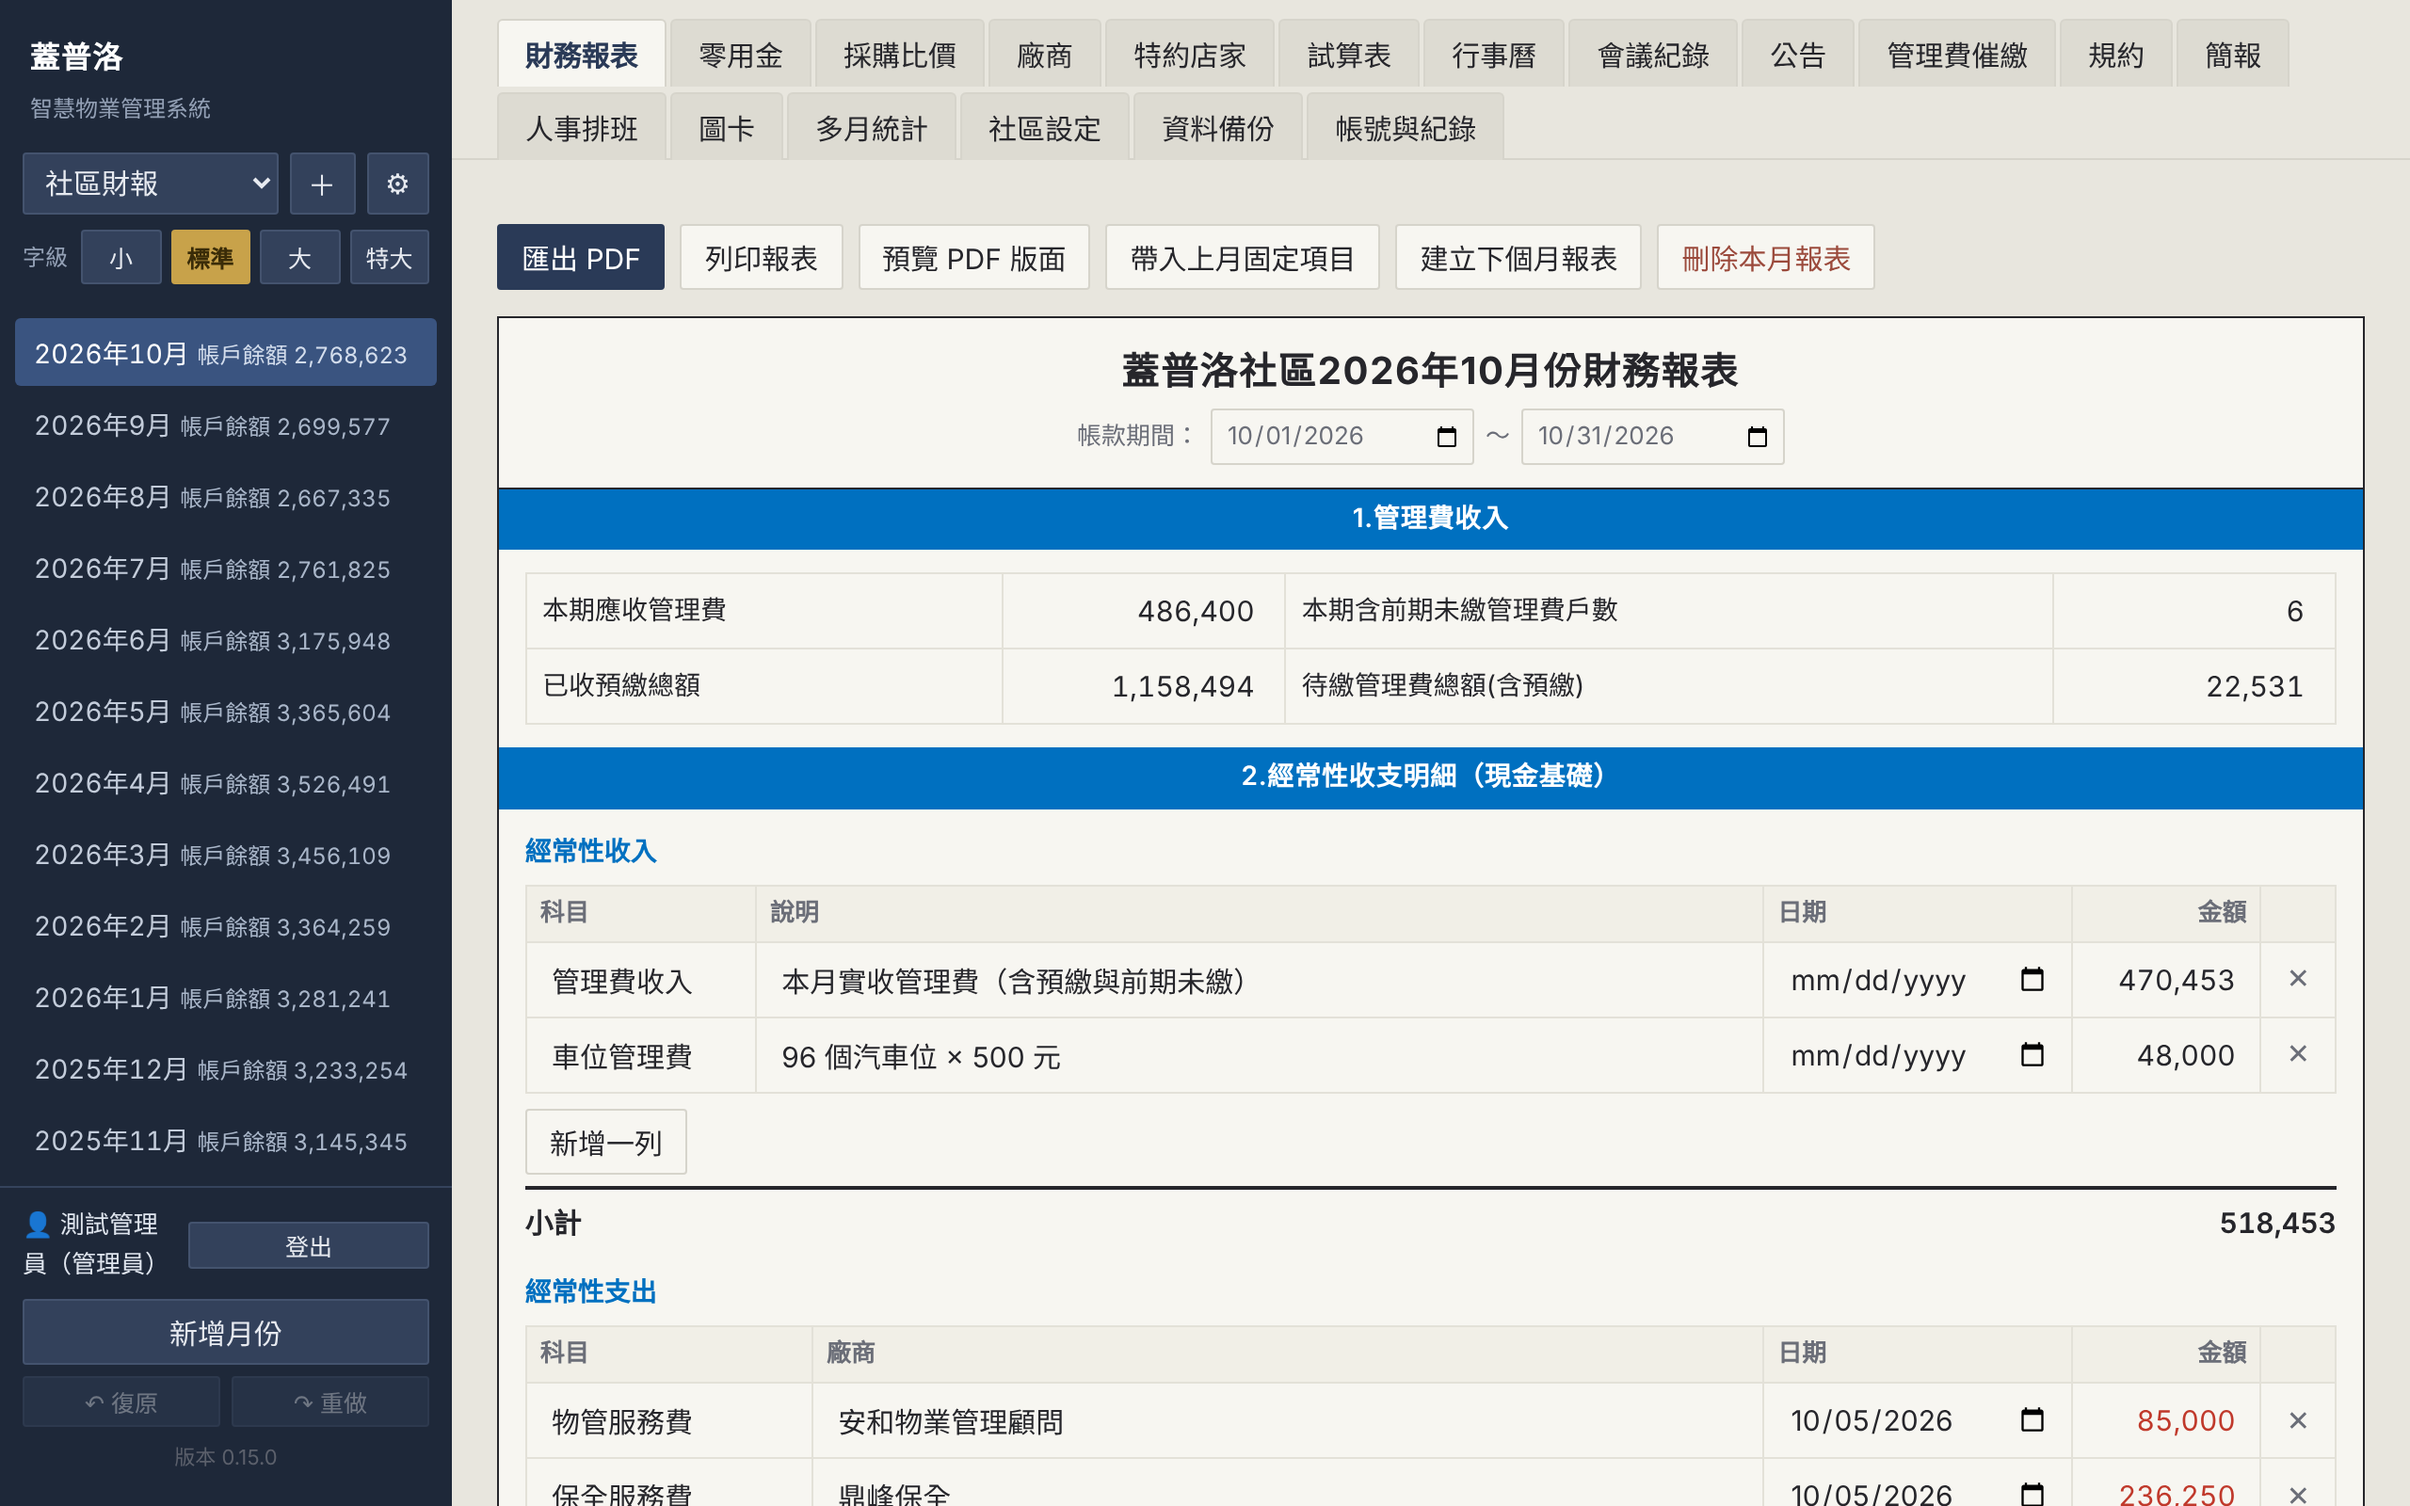
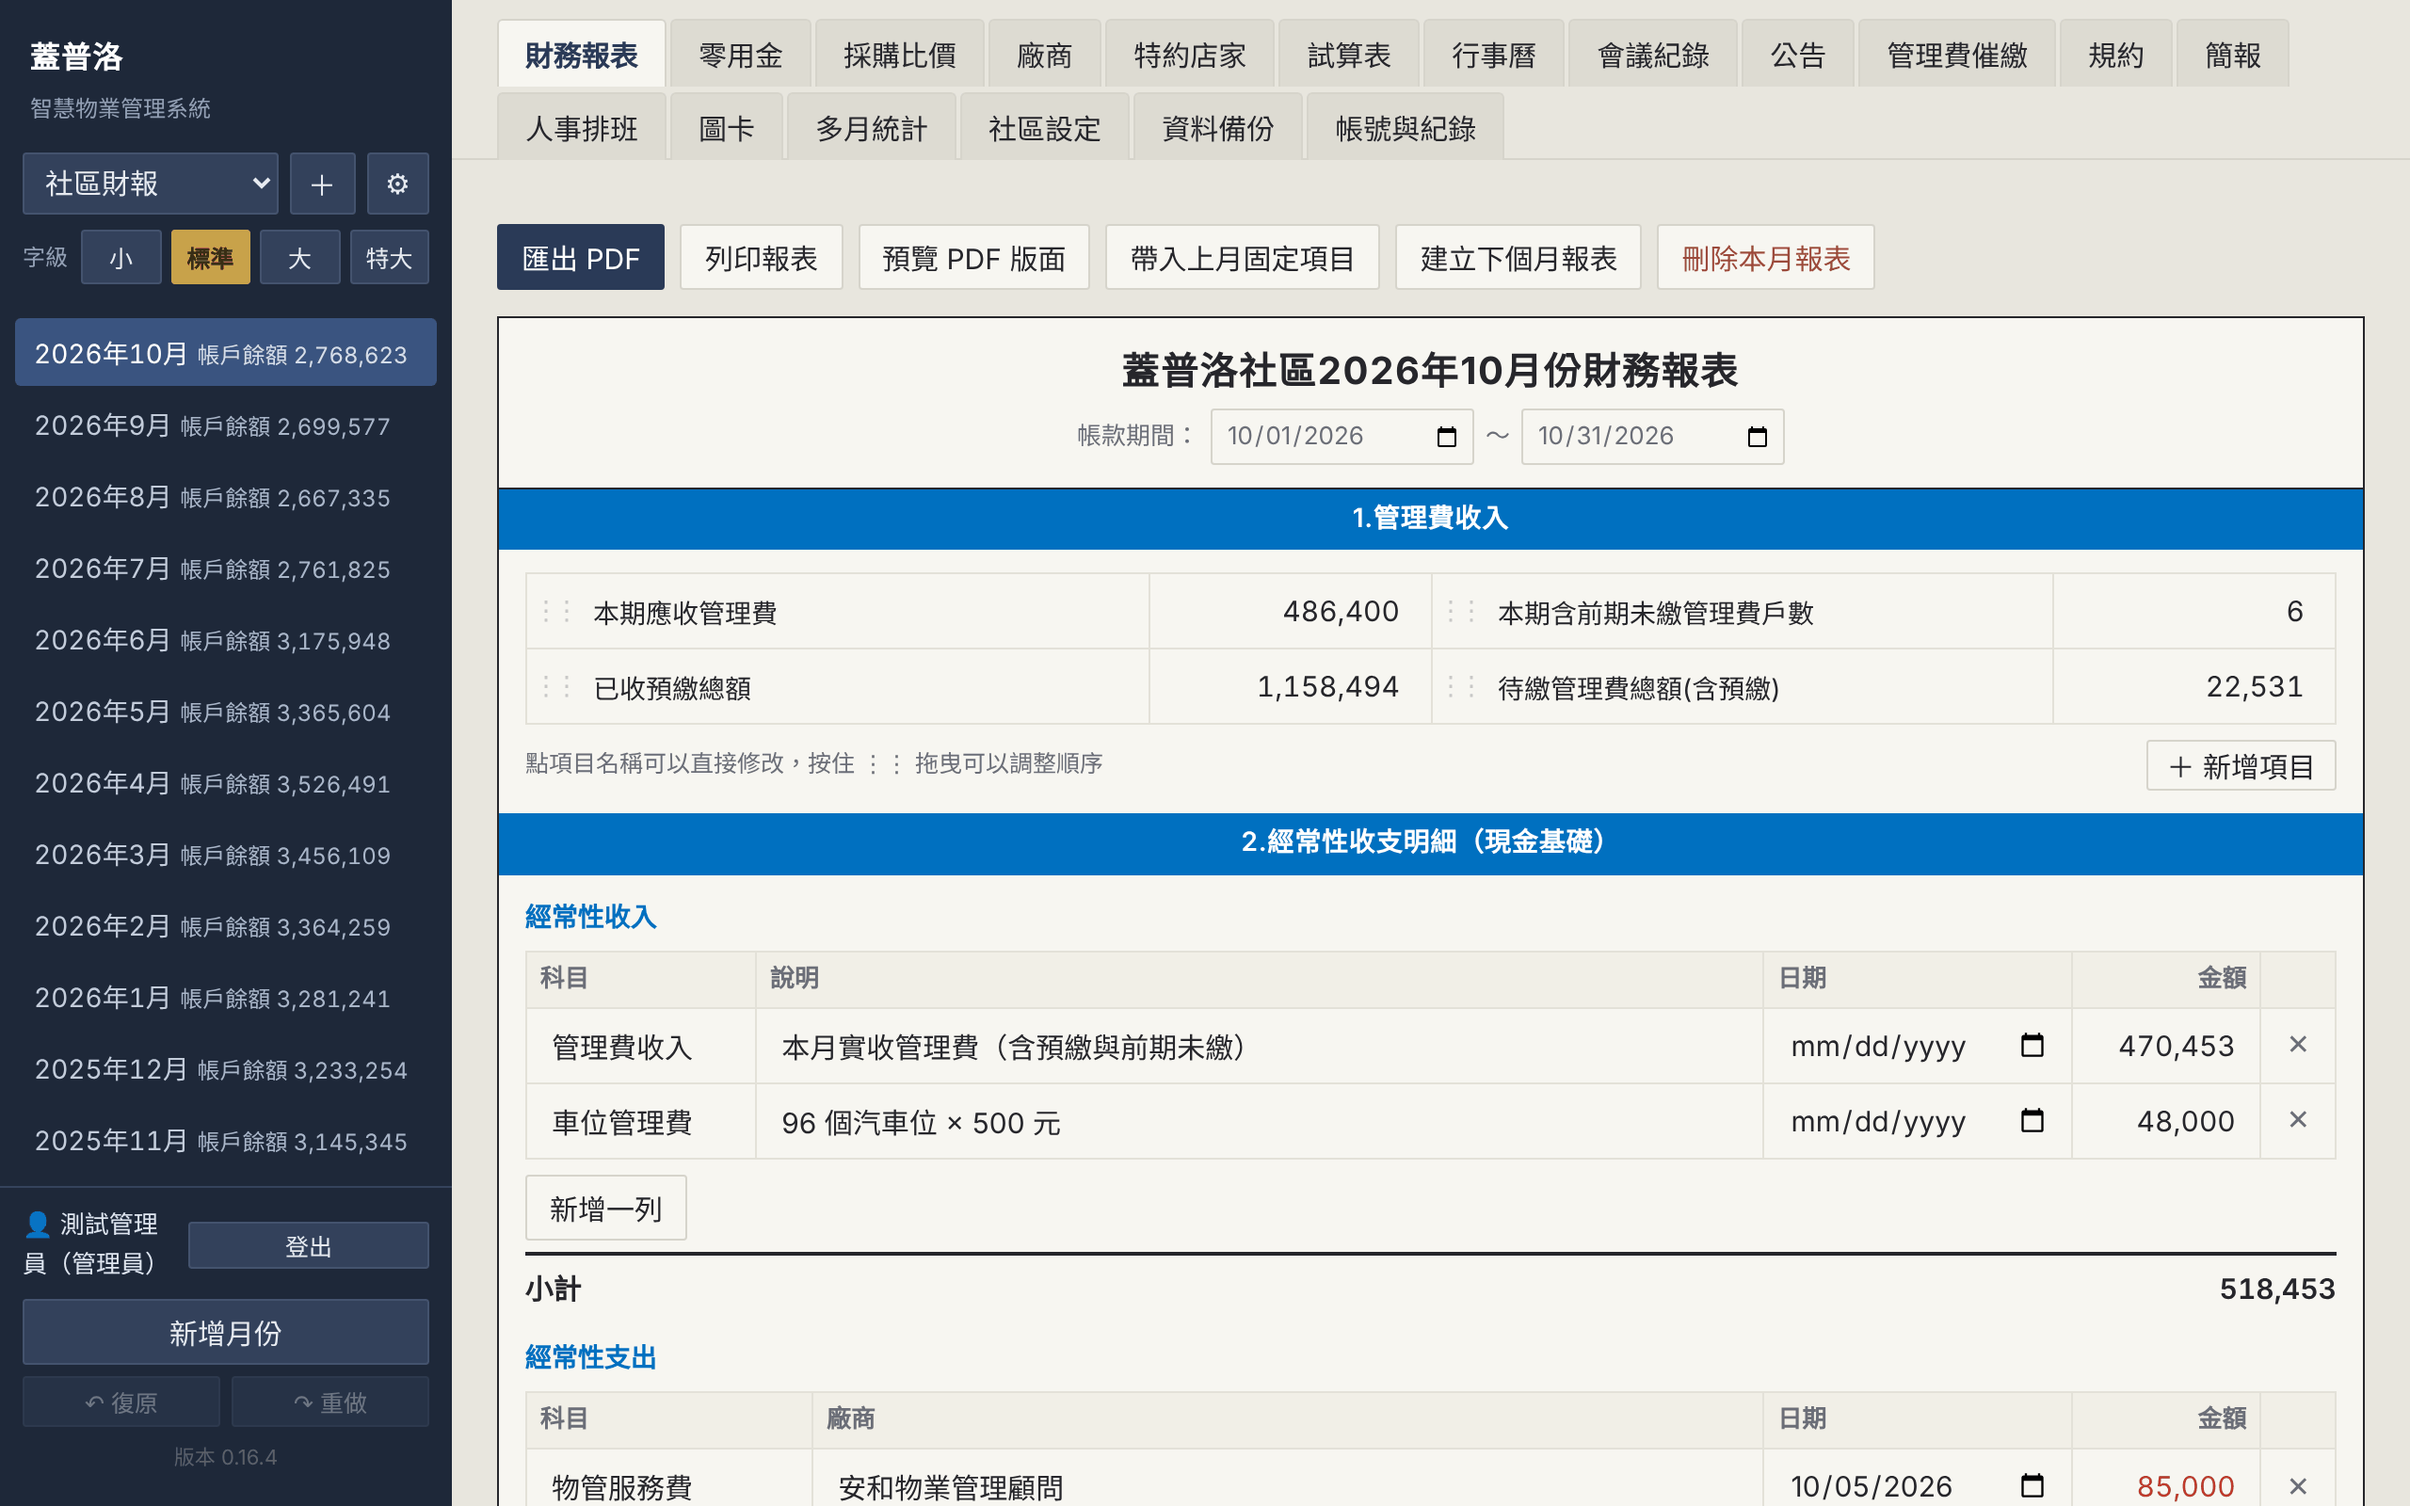
使用說明：管理費收入可以自訂項目（改名、拖曳排序、刪除、新增）；主畫面截圖更新為 0.16.4

Changed region(s): [[0.1875, 0.375, 1.0, 1.0], [0.7188, 0.7812, 0.9688, 1.0], [0.3438, 0.875, 0.4688, 1.0]]

diff --git a/使用說明.md b/使用說明.md
@@ -137,7 +137,9 @@
 
 每個月一份報表，分成五區，依序填寫即可：
 
-**1. 管理費收入**　本期應收管理費、本期含前期未繳管理費戶數、已收預繳總額、待繳管理費總額（含預繳）。
+**1. 管理費收入**　本期應收管理費、本期含前期未繳管理費戶數、已收預繳總額、待繳管理費總額（含預繳）。這一區的項目可以自己調整：直接點項目名稱就能改名；按住左邊的 ⋮⋮ 拖到別的項目上，可以調整順序；滑鼠移到項目上，右邊會出現 ✕ 可以刪除；右下角「＋ 新增項目」可以加上社區需要的項目，每個月各自填數字。項目名稱與順序是整本帳本共用的，所有月份的畫面與 PDF 都會跟著改。原本的四個項目刪除後只是不顯示，舊的數字仍會保留（多月統計、簡報會用到）；改過之後可以按「恢復預設項目」回到原本的四項。
+
+<img src="images/46-fee-items.png" width="800" alt="管理費收入：改過名稱、新增項目後，滑鼠移到項目上出現拖曳把手與刪除按鈕">
 
 **2. 經常性收支明細**　每月固定的收入（管理費、車位費）與支出（物管、保全、清運、電梯、水電）。每列填科目、說明或廠商、日期、金額，按「新增一列」加列。
 
